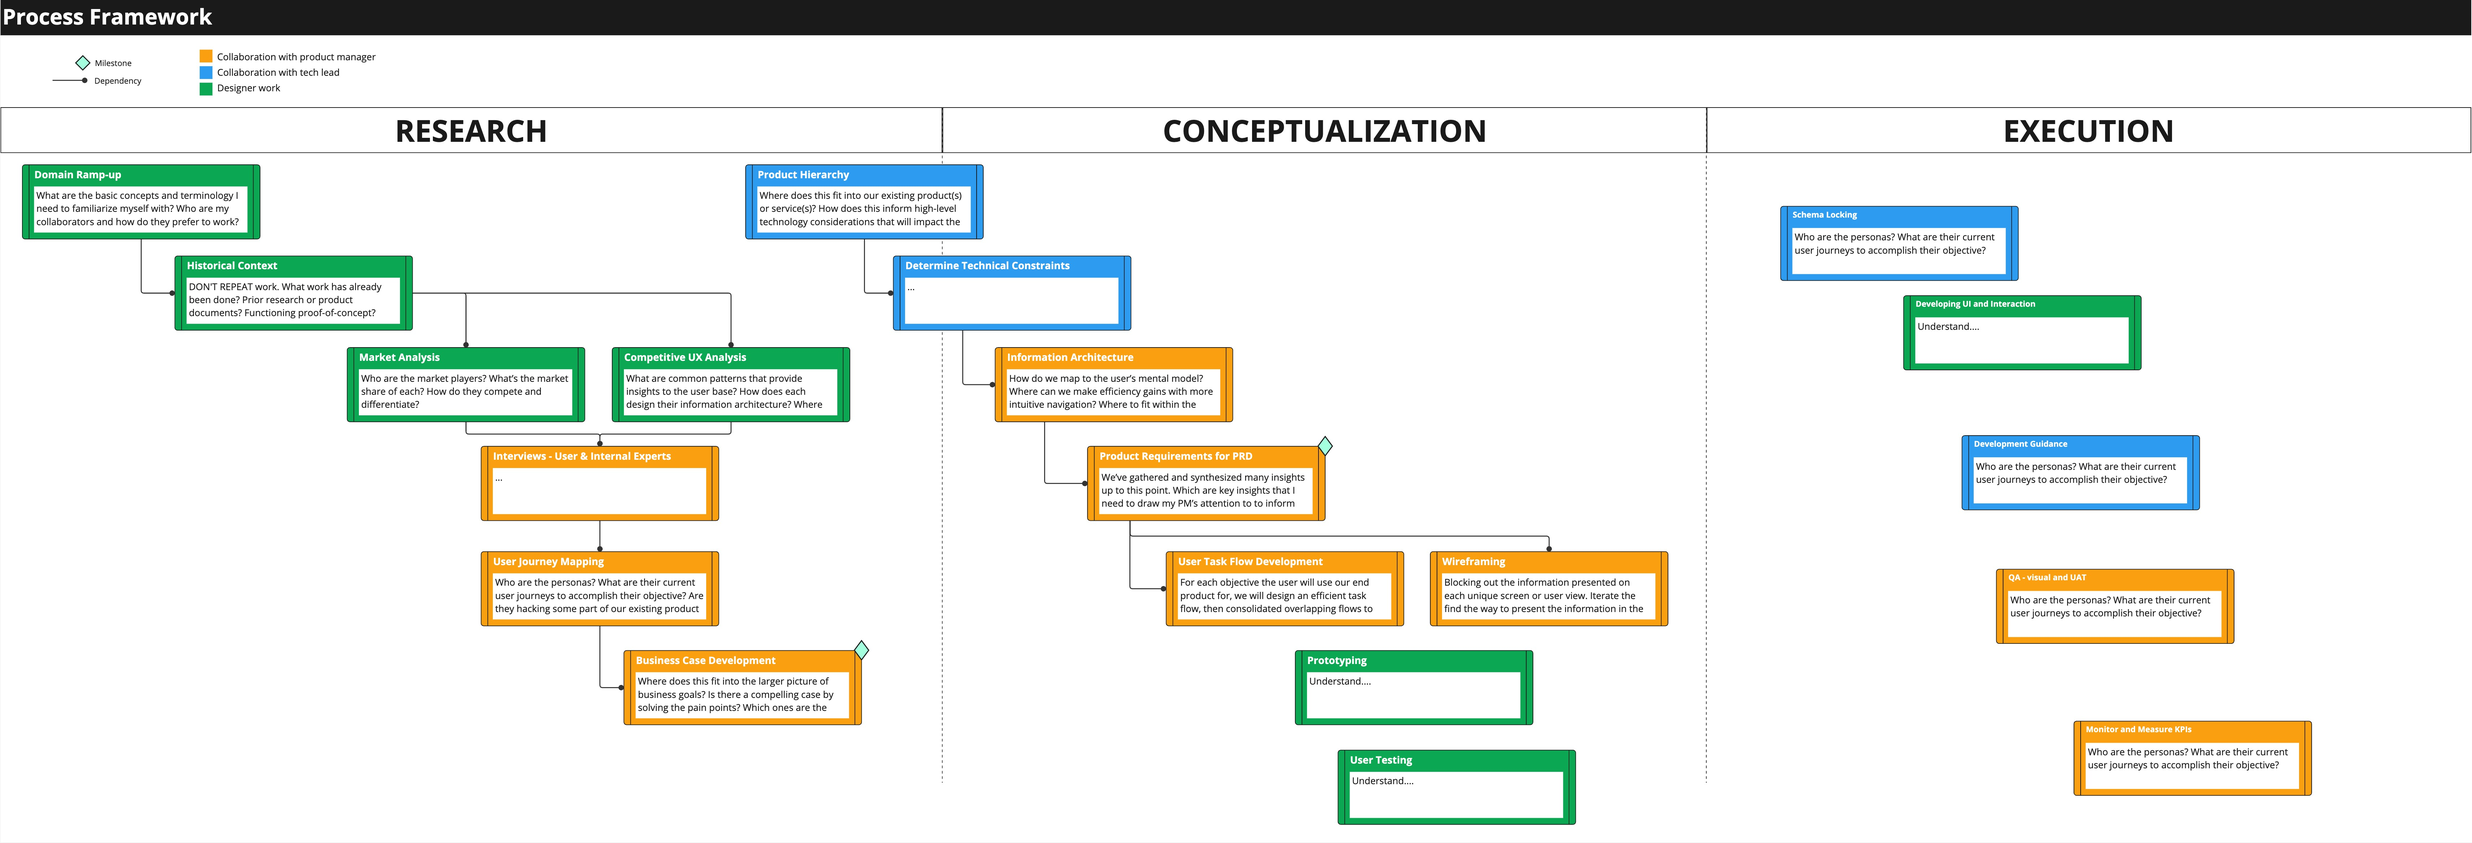
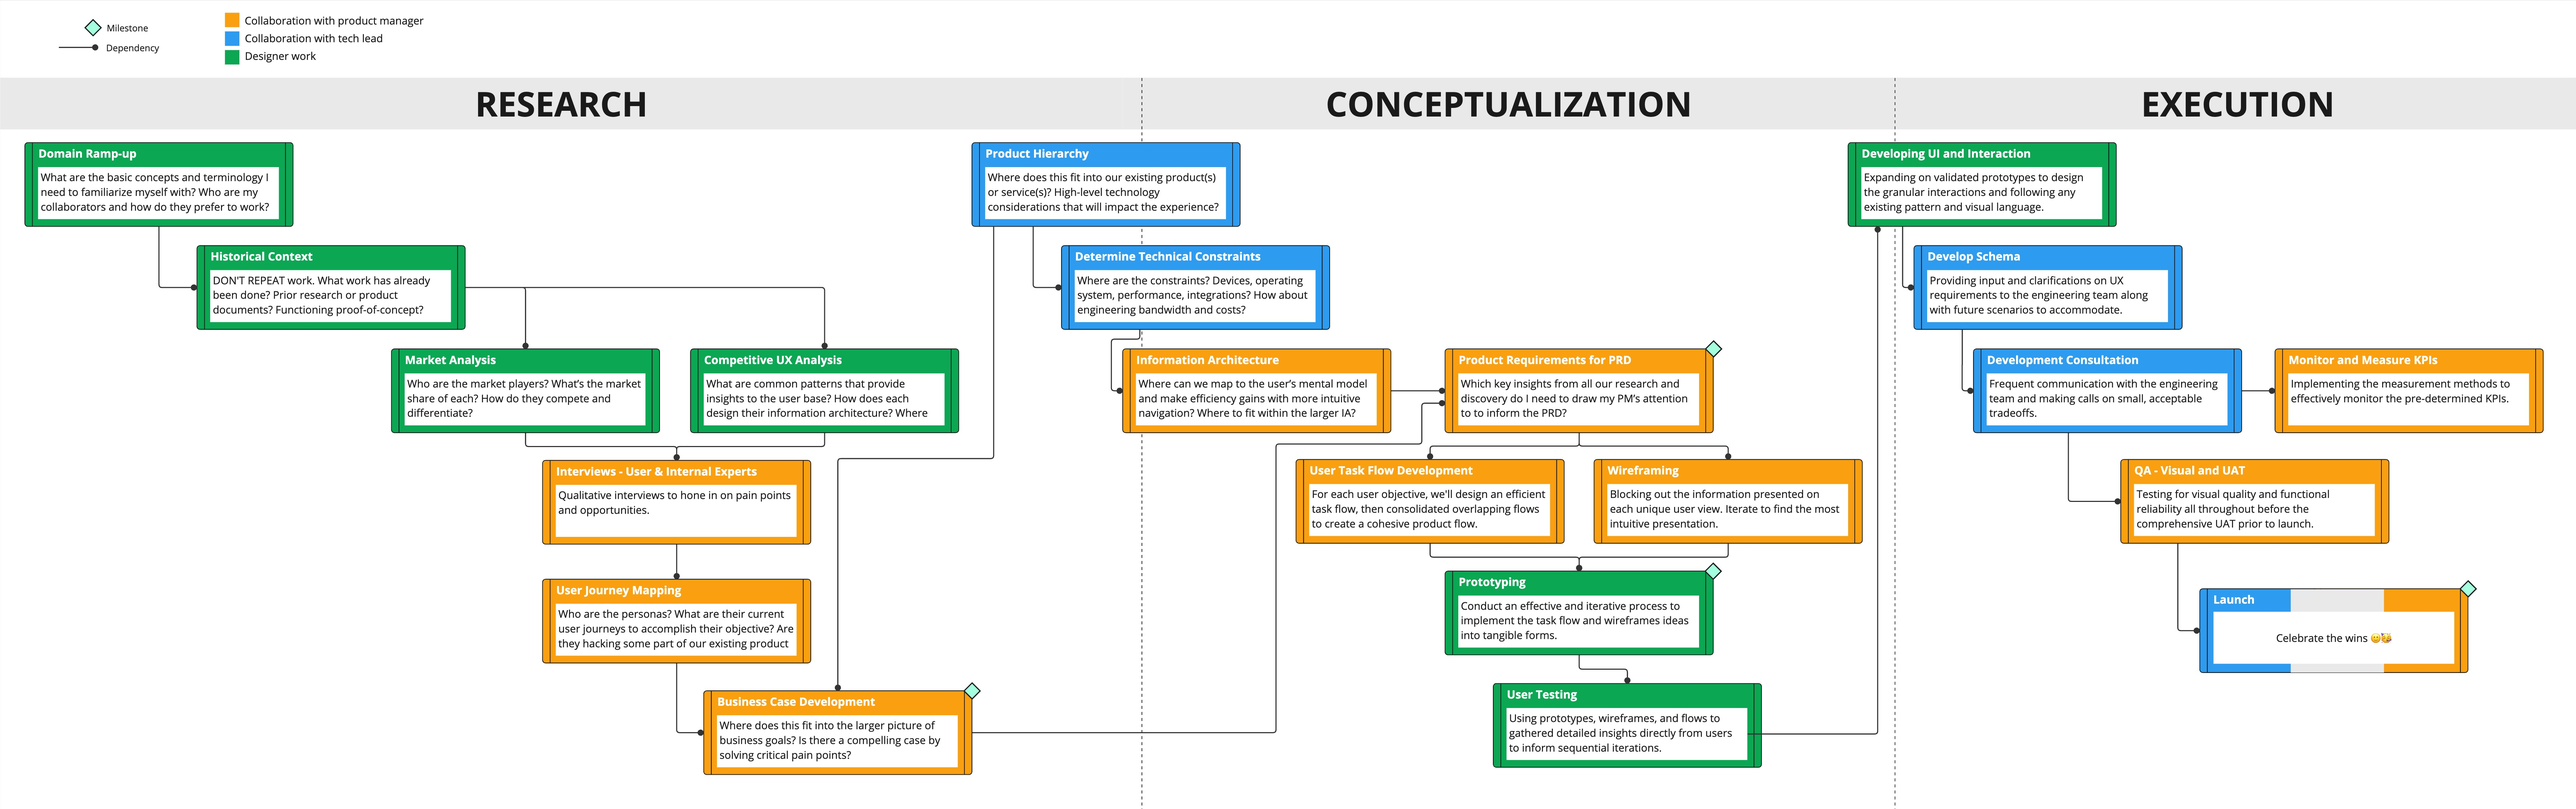
modal diagram

diff --git a/src/utils/css/components/indexPage.css b/src/utils/css/components/indexPage.css
@@ -96,7 +96,9 @@
     transition-duration: 0.3s; 
     transition-timing-function: ease-out; 
   }
-  .groups-a button:hover::before { left: 0px; right: 0px; }
+  .groups-a button:hover::before { left: 0px; 
+    font-weight: 700;
+    right: 0px; }
   .groups-a button:active::before { left: 0px; right: 0px; }
 
   /* .my-btn-class-48 { 
@@ -299,15 +301,27 @@
 }
 
 .modal-scrollable-content {
-  margin-top: 50px;
+  margin-top: 30px;
   width: 2500px;
+}
+
+.modal-h2-div{
+  background-color: black;
+}
+
+.modal-scrollable-content h2{
+  color: white;
+  font-size: 3rem;
+  font-weight: 700;
+  padding-left: 30px;
+  margin: 0;
 }
 
 .modal-content button {
   position: fixed;
-    top: 60px;
-    right: 50px;
-    float: right; 
+    top: 30px;
+    right: 45px;
+    float: right;
     color: var(--color-primary) !important;
     font-weight: 700;
     border: 2px solid var(--color-primary);

diff --git a/src/pages/index.js b/src/pages/index.js
@@ -218,6 +218,9 @@ const BlogIndex = () => {
               >
                 <button onClick={closeModal}>X</button>
                 <div className="modal-scrollable-content">
+                  <div className="modal-h2-div">
+                <h2>Process Framework</h2>
+                </div>
                 <StaticImage
                   src="../images/test-process.jpg"
                   loading="eager"

diff --git a/gatsby-config.js b/gatsby-config.js
@@ -31,7 +31,7 @@ module.exports = {
       defaults: {
         formats: [`auto`, `webp`],
         placeholder: `dominantColor`,
-        quality: 80,
+        quality: 6,
         breakpoints: [750, 1080, 1366, 1920],
         backgroundColor: `transparent`,
         blurredOptions: {},
